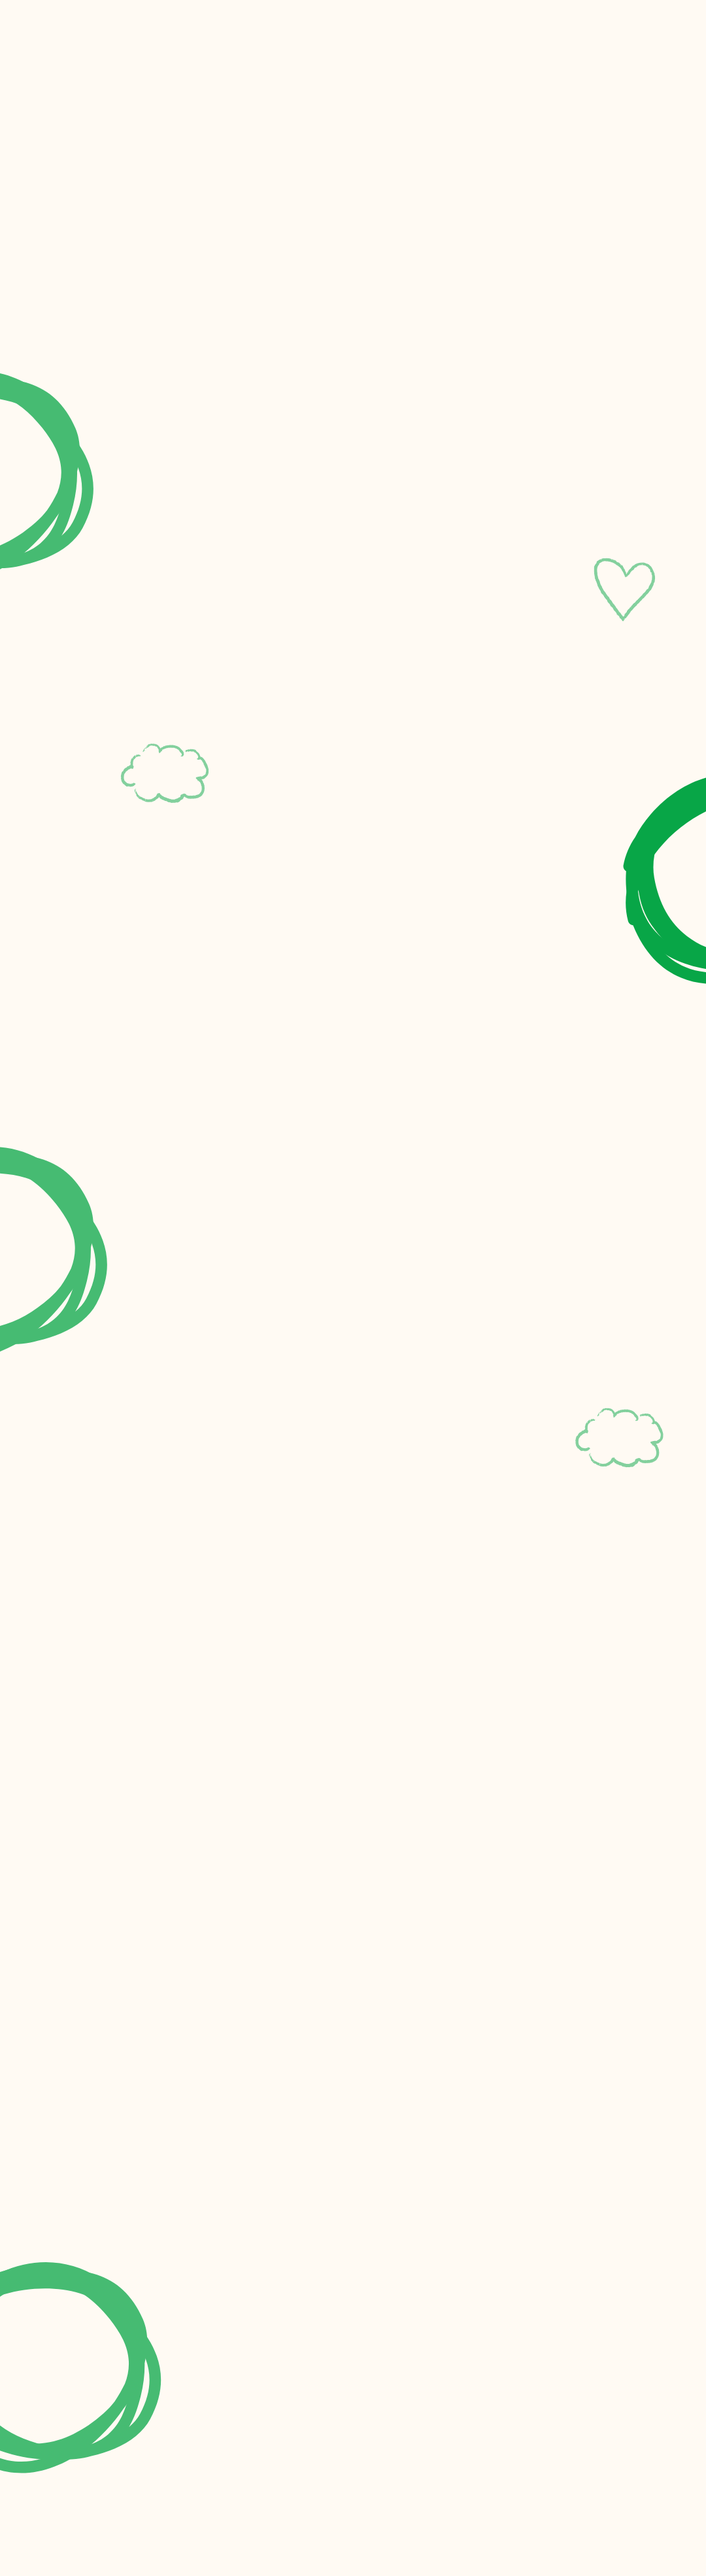
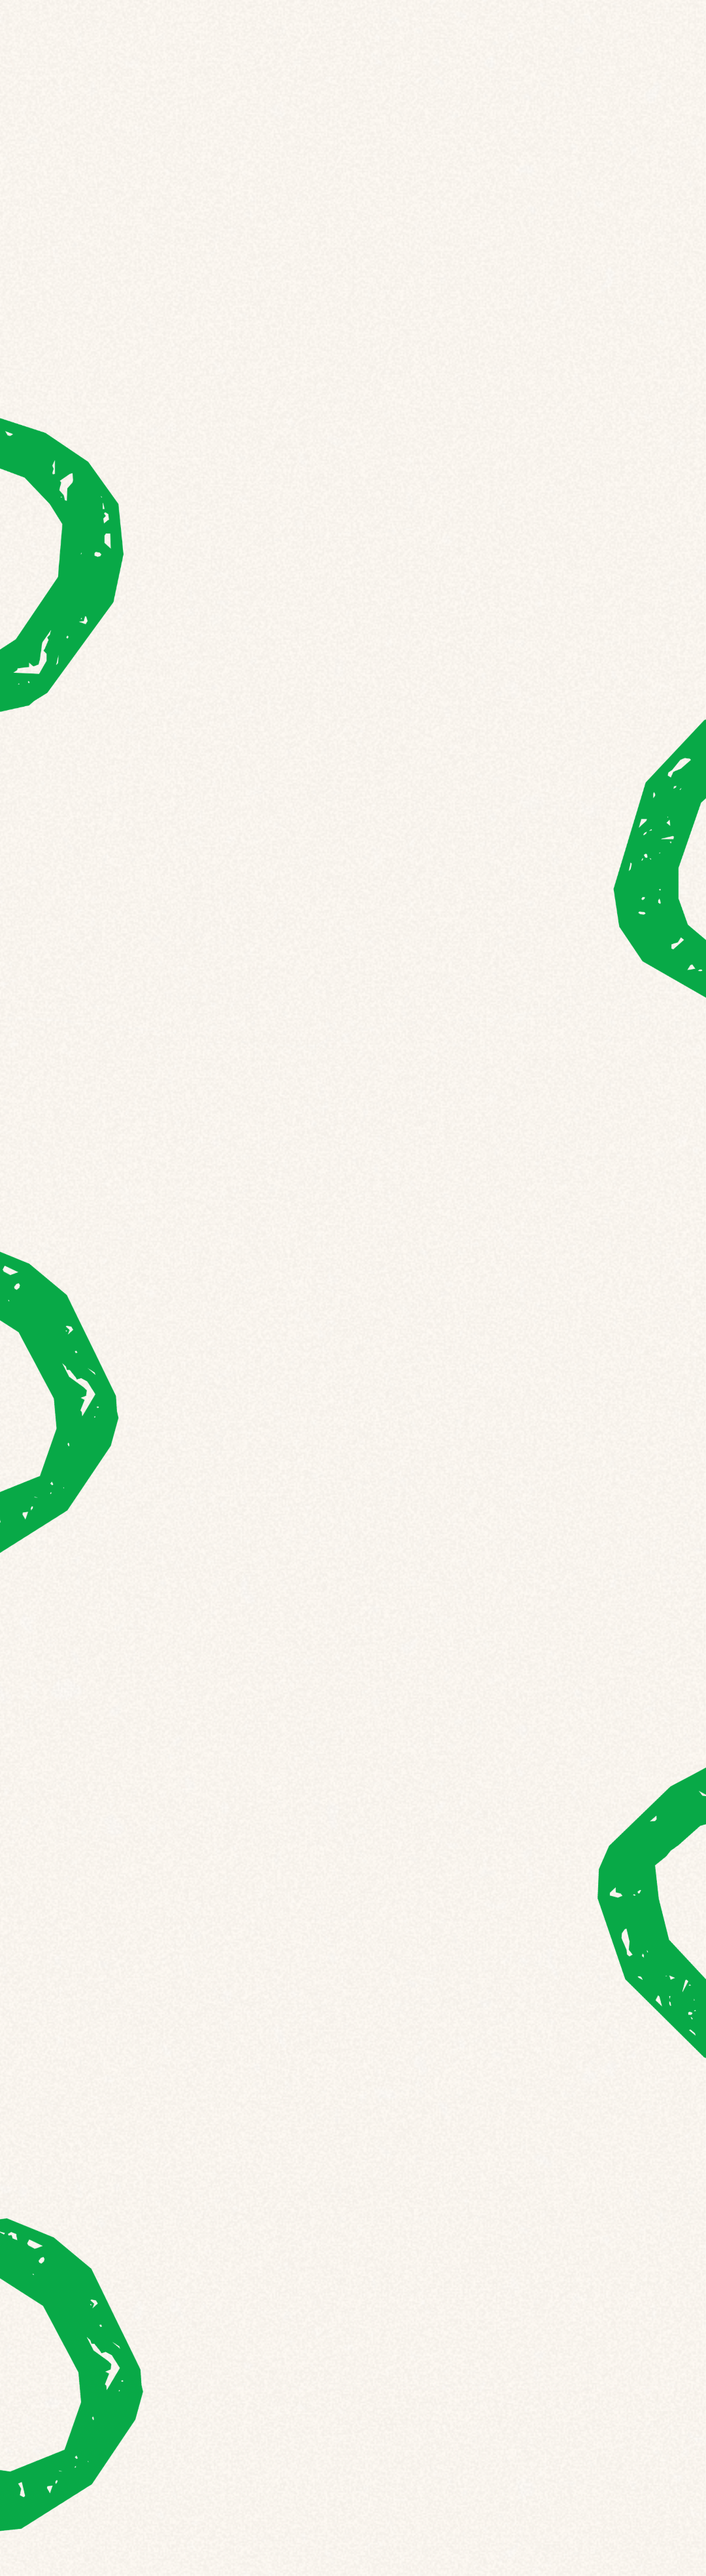
style: update background

diff --git a/src/components/background-text-layout.tsx b/src/components/background-text-layout.tsx
@@ -17,9 +17,9 @@ const BackgroundTextLayout = ({ children }: { children: ReactNode }) => {
         display: 'inline-block', // Shrinks container height to fit content
       }}
     >
-      <div style={{ padding: '24px', backgroundColor: 'rgba(255, 255, 255, 0.35)' }}>
+      {/* <div style={{ padding: '24px', backgroundColor: 'rgba(255, 255, 255, 0.35)' }}> */}
         {children}
-      </div>
+      {/* </div> */}
     </div>
   );
 };

diff --git a/src/app/page.tsx b/src/app/page.tsx
@@ -4,7 +4,7 @@ import { songBooks } from "@/data/song-books";
 export default async function HomePage() {
   return (
     <BackgroundTextLayout>
-      <main className="p-6">
+      <main className="px-8 py-10">
         <h1 className="title">Cancionero</h1>
         <p className="subtitle -mt-4 mb-8">Jornada Diocesana de Niños 2026</p>
 
